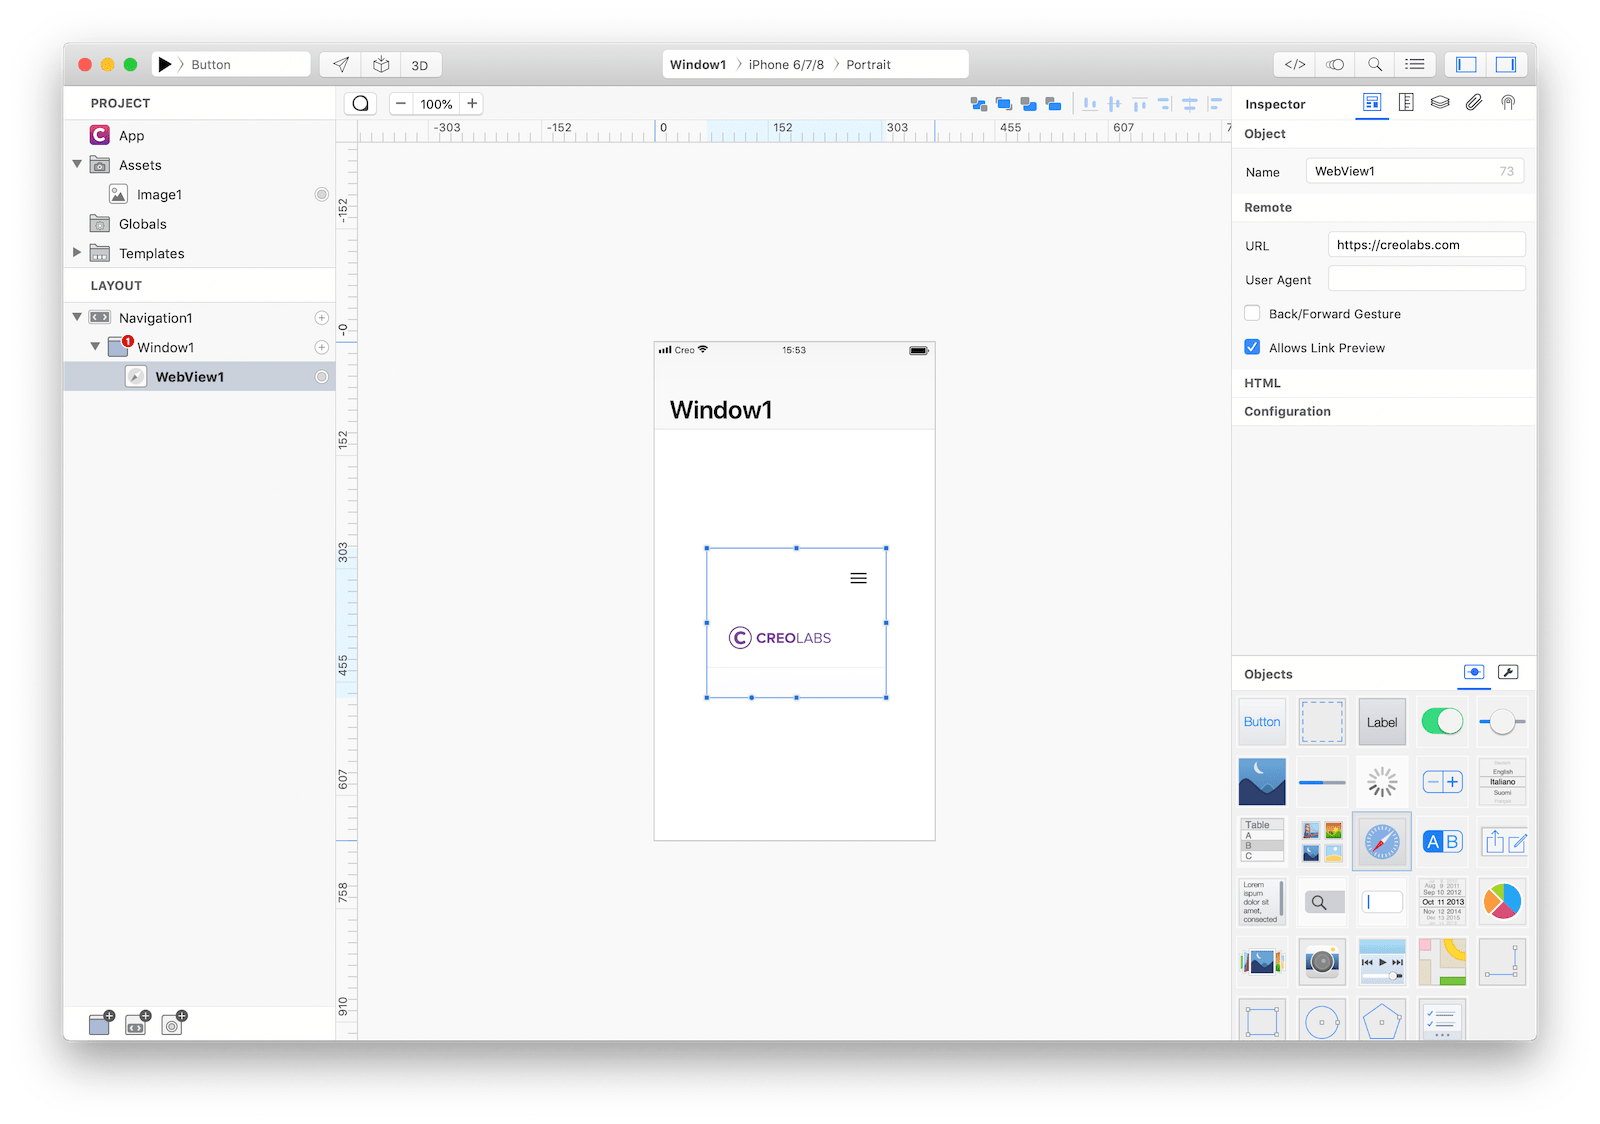
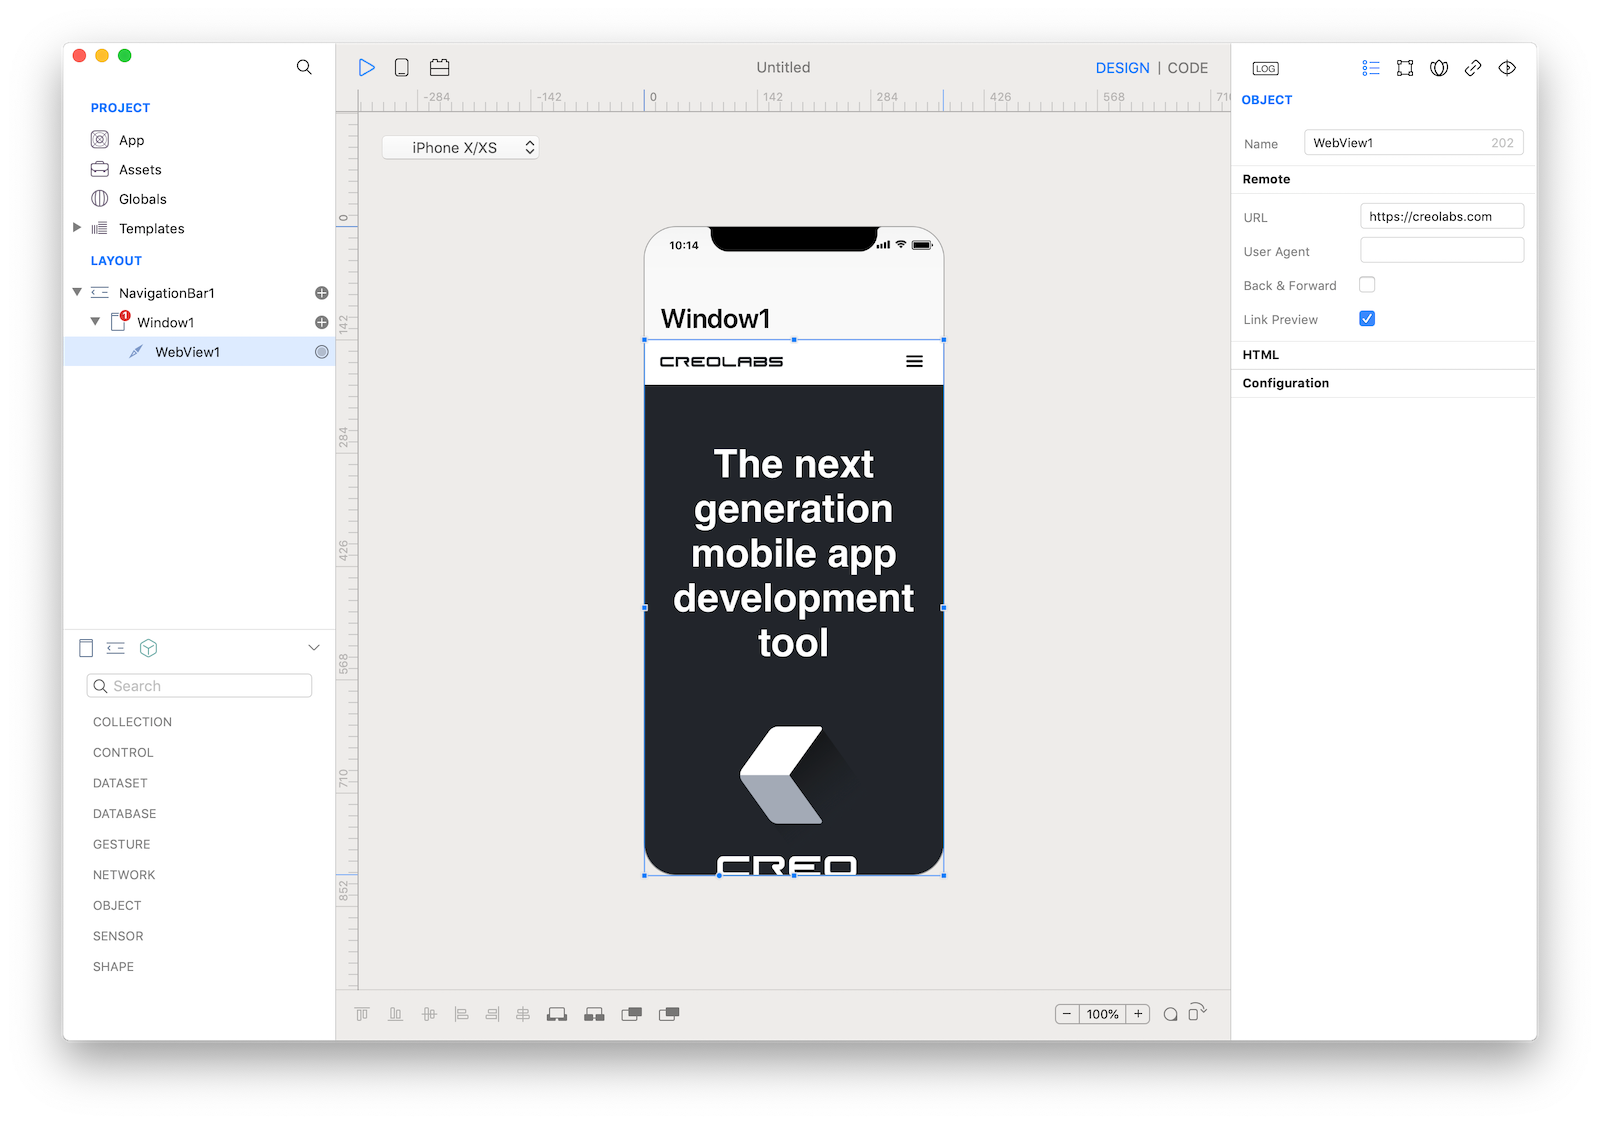
Updated WebView for Creo2

diff --git a/docs/creo/WebView.md b/docs/creo/WebView.md
@@ -1,6 +1,6 @@
 A web view loads and displays rich web content, such as embedded HTML and websites, directly within your app. Mail uses a web view, for example, to show HTML content in messages.
 
-![WebView](../images/creo/webview1.png)
+![WebView](../images/creo2/webview1.png)
 
 ### Best practices
 * **Enable forward and back navigation when appropriate.** Web views support forward and back navigation, but this behavior is disabled by default. If people will use your web view to visit multiple pages, enable forward and back navigation, and provide corresponding controls to initiate these features.
@@ -12,15 +12,15 @@ A web view loads and displays rich web content, such as embedded HTML and websit
 
 If you need to write code for WebView:
 
-3. Open the `Code Editor` (cmd + 6)
+3. Open the `Code Editor`
 4. Select the `DidFinish` item inside the `Events` area and write your custom code in the `Code Editor`
 
-![`WebView` inspector](../images/creo/webview2.png)
+![`WebView` inspector](../images/creo2/webview2.png)
 The inspector where the `WebView` class can be configured.
 
 ### Example
 1. Drop a `Button` control from the object panel to a `Window`
-2. Open the `Code Editor` (cmd + 6)
+2. Open the `Code Editor`
 3. Select the `Action` item inside the `Events` area and write your custom code in the `Code Editor`
 ```
 WebView1.url = "https://www.creolabs.com"
